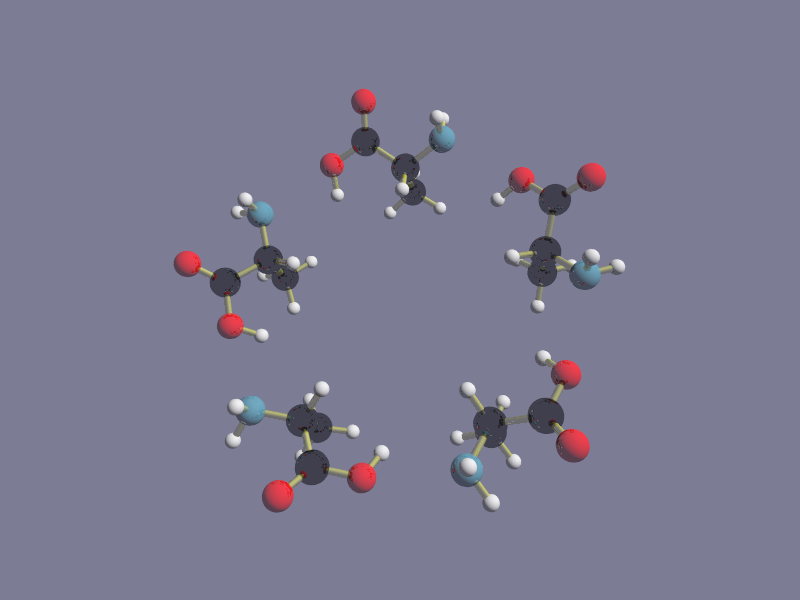
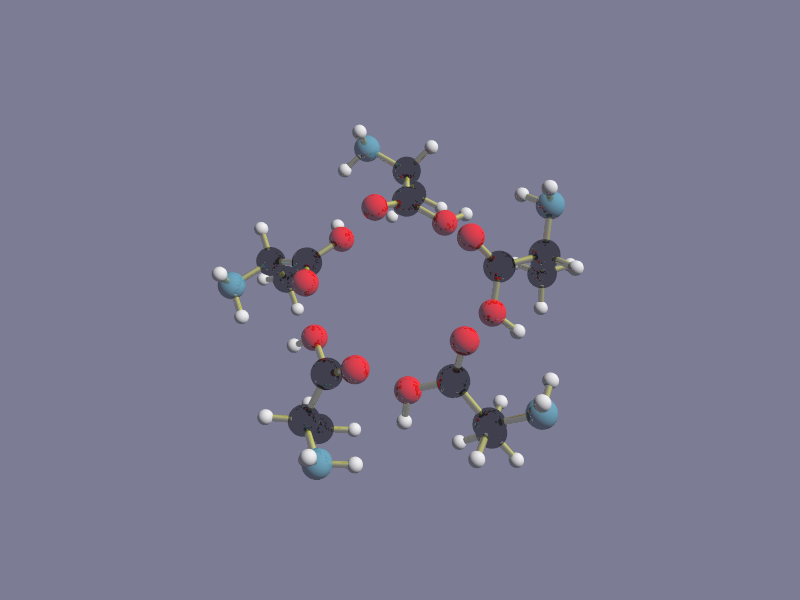
automated edting, simplified editing, added readme and requirements

Changed region(s): [[0.2812, 0.15, 0.7812, 0.87], [0.2188, 0.3, 0.4688, 0.57]]

diff --git a/A07/Scene_to_Object.py b/A07/Scene_to_Object.py
@@ -1,0 +1,64 @@
+import os
+
+# Get the folder where this script is located to avoid FileNotFoundError
+script_dir = os.path.dirname(os.path.abspath(__file__))
+file_path = os.path.join(script_dir, 'ala.pov')
+
+# Read the original file content
+with open(file_path, 'r') as f:
+    lines = f.readlines()
+
+new_lines = []
+skip_block = False
+brace_count = 0
+
+for line in lines:
+    stripped = line.strip()
+    
+    # 1. LOGIC TO DELETE SCENE ELEMENTS (Camera, Light, Background)
+    if skip_block:
+        # We are inside a block to be deleted.
+        # We still need to count braces to know when the block ends.
+        brace_count += line.count('{')
+        brace_count -= line.count('}')
+        if brace_count <= 0:
+            skip_block = False
+            brace_count = 0
+        # Do NOT append the line. Just continue to the next one.
+        continue
+    
+    # Identify start of Camera, Background, or Light Source blocks
+    if stripped.startswith('camera') or \
+       stripped.startswith('background') or \
+       stripped.startswith('light_source'):
+        
+        # Check if the block opens and closes on the same line
+        current_braces = line.count('{') - line.count('}')
+        if current_braces > 0:
+            skip_block = True
+            brace_count = current_braces
+        
+        # Do NOT append this line.
+        continue
+
+    # 2. LOGIC TO DELETE RENDERING DIRECTIVES
+    # Remove #render text
+    if stripped.startswith('#render'):
+        continue
+
+    # Remove the immediate instantiation of 'mol_0'
+    if stripped == 'mol_0':
+        continue
+
+    # Keep all other lines (atoms, bonds, definitions)
+    new_lines.append(line)
+
+# 3. ADD THE NEW OBJECT DECLARATION
+new_lines.append('\n// Declaring the molecule object for external use\n')
+new_lines.append('#declare Alanine_Mol = object { mol_0 }\n')
+
+# Write the modified content back to the file
+with open(file_path, 'w') as f:
+    f.writelines(new_lines)
+
+print(f"Success! {file_path} has been cleaned and converted to an object file.")

diff --git a/A07/README.md b/A07/README.md
@@ -1,0 +1,39 @@
+How to generate the image:
+
+1. Clone from github:
+```bash
+git clone https://github.com/vf375/ci2.git
+```
+2. Change directory
+```bash
+cd ci2/A07
+```
+3. Create venv in directory:
+On macOS/Linux:
+```bash
+python3 -m venv .venv
+source .venv/bin/activate
+```
+On Windows:
+```bash
+python -m venv venv
+venv\Scripts\activate
+```
+4. Install requirements using pip:
+```bash
+pip install -r requirements.txt
+```
+5. Generate the an alanine scene using openbabel:
+```bash
+obabel ala.smi -O ala.pov --gen3D
+```
+6. Convert the scene into an object:
+```bash
+python3 Scene_to_Object.py 
+```
+7. Render the final scene using povray and ala5.pov:
+```bash
+povray +Iala5.pov +Oala5.png +W800 +H600 +A
+```
+
+ala5.png wil be generated as a result.
